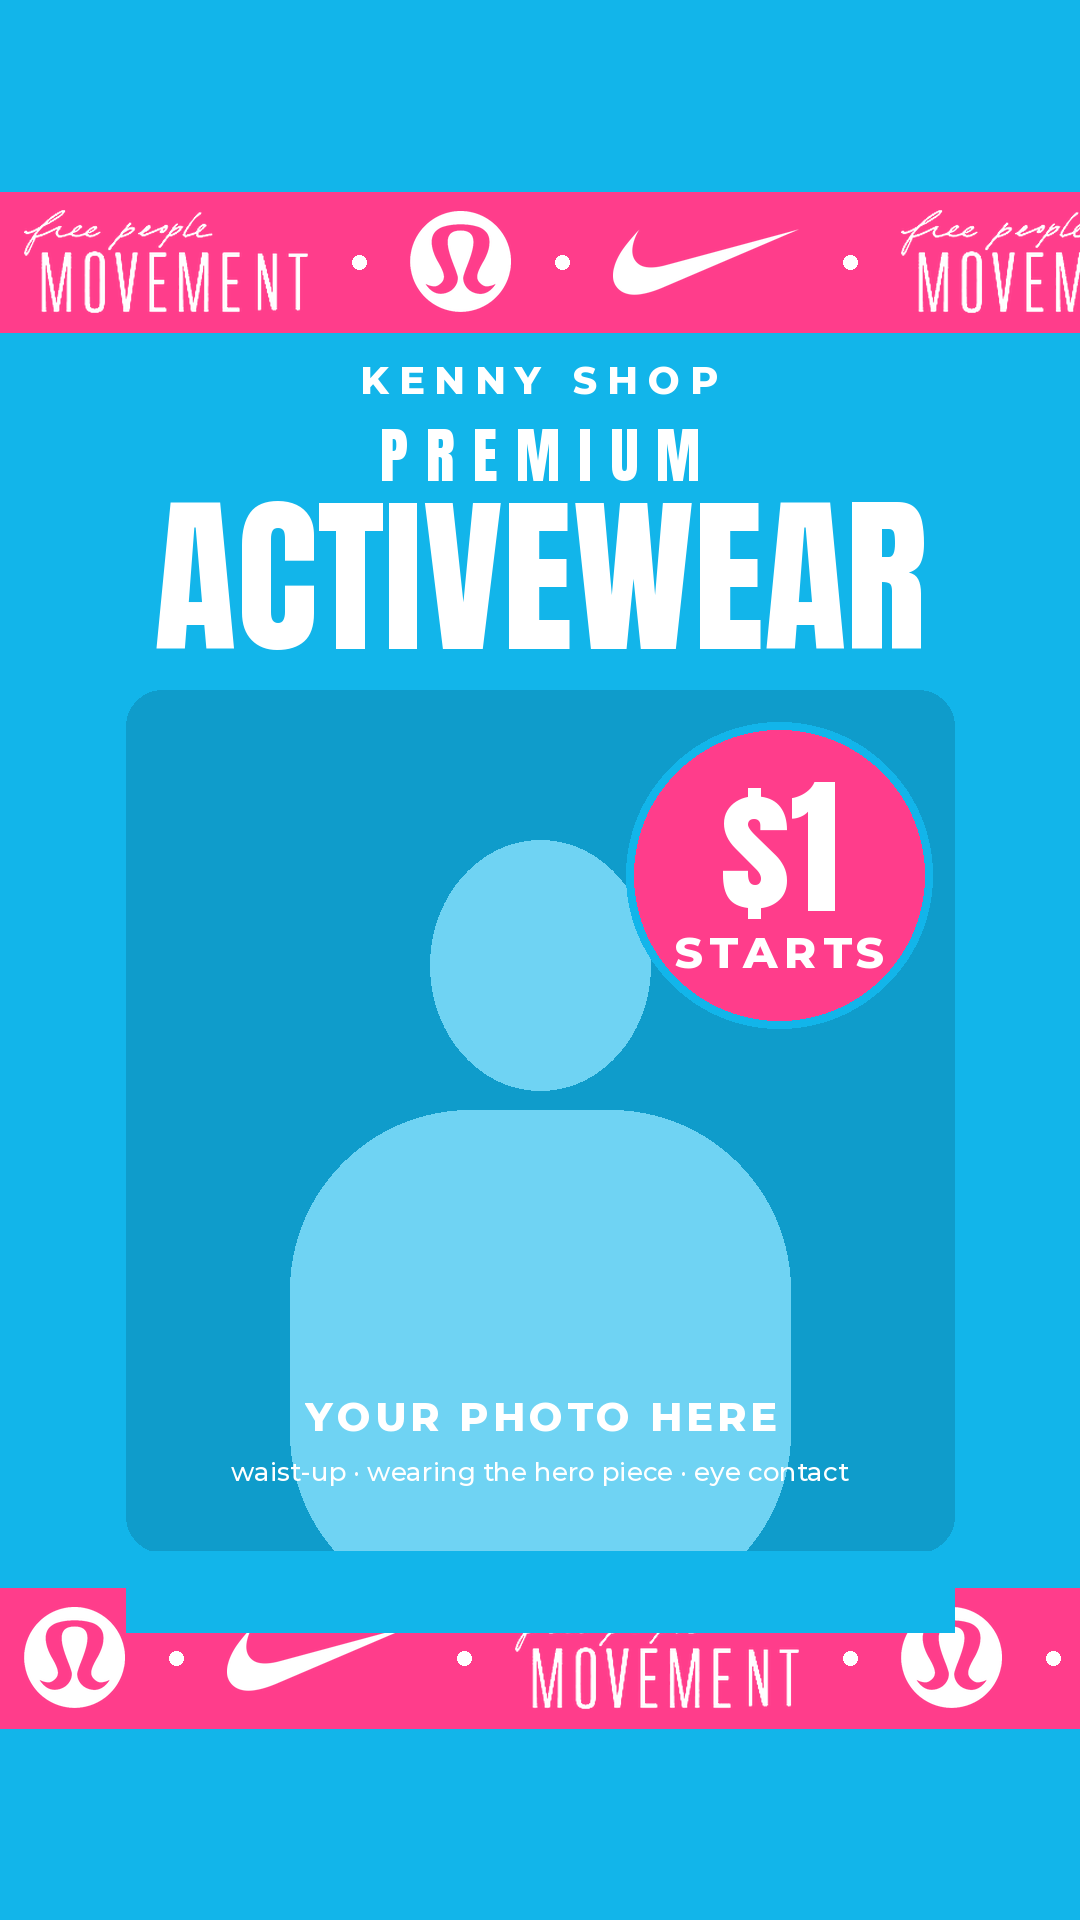
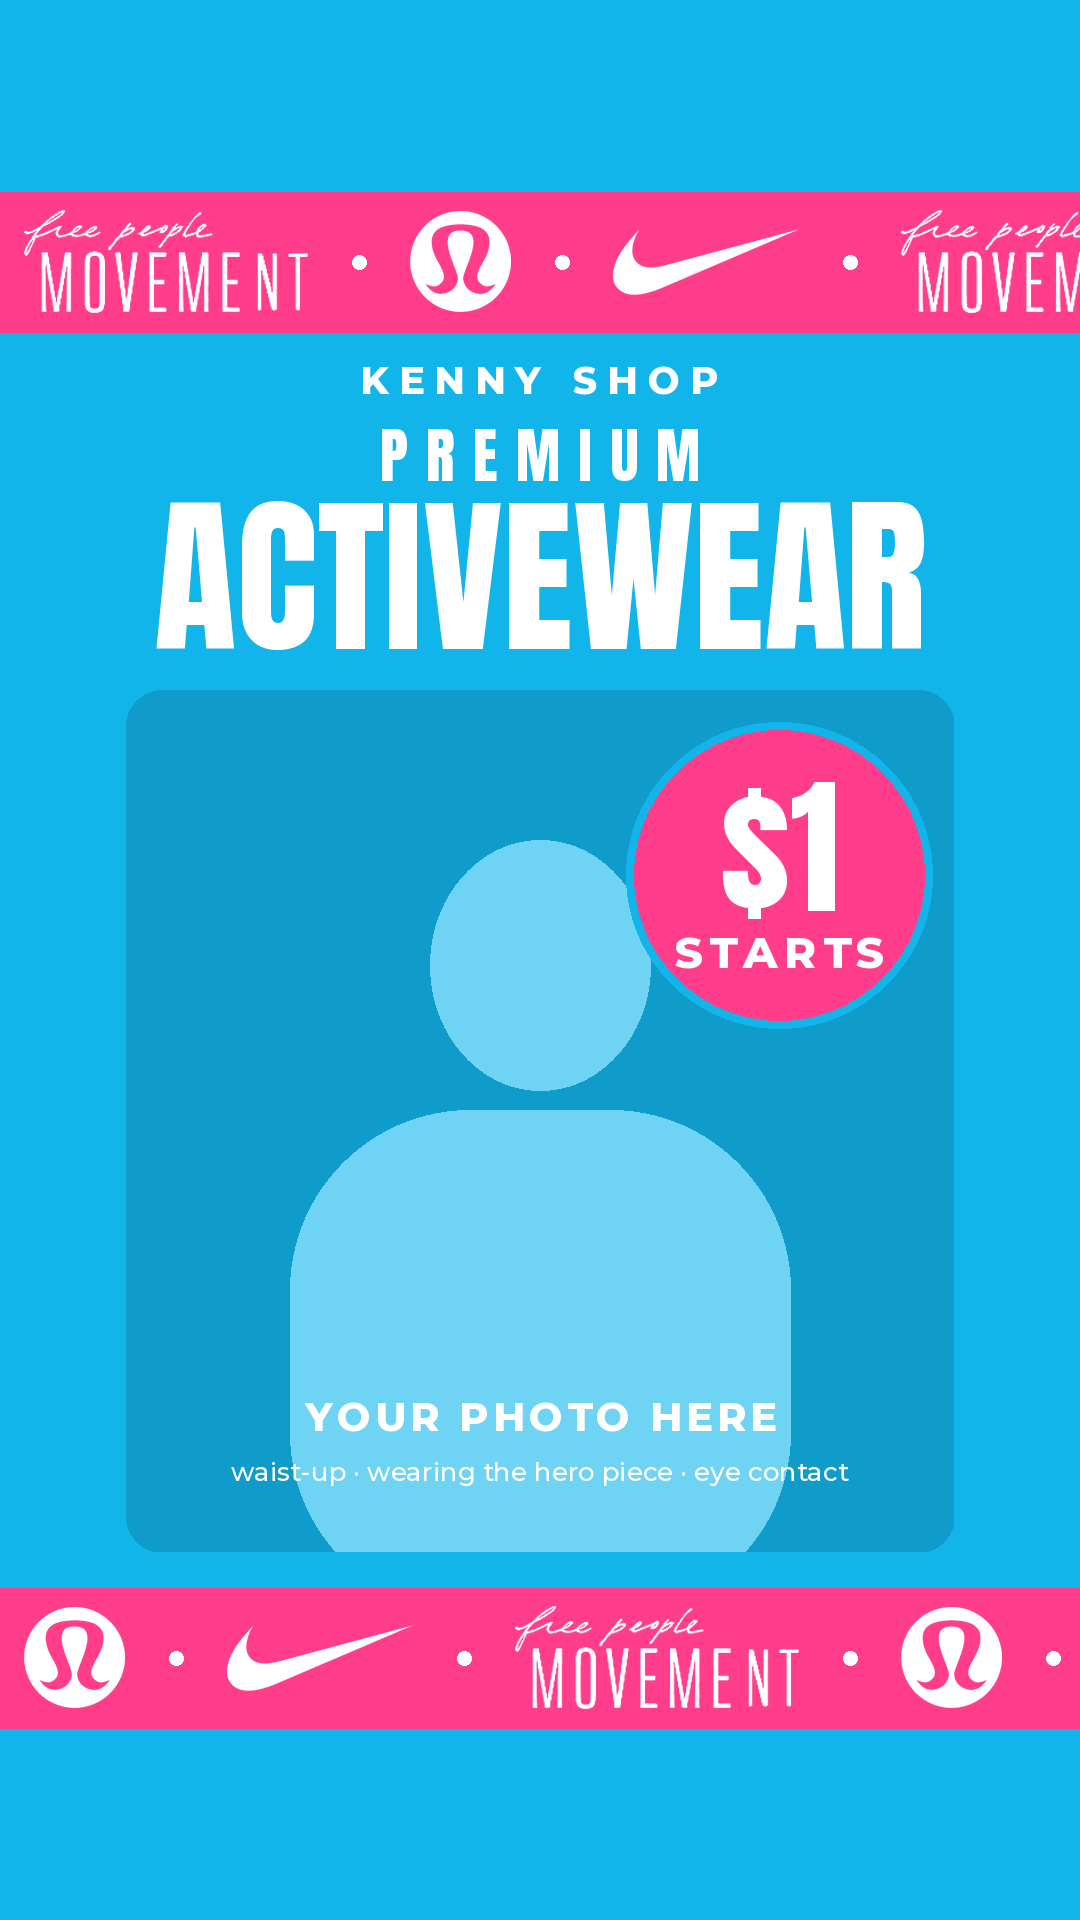
Add "For the Girls" Whatnot cover: pink, Brandy Melville / Aerie / Garage / Princess Polly
- New show in make_covers.py (hot pink + baby pink, Playfair headline)
- Six pink color options in options-for-the-girls.png
- Photo placeholder now clipped to its rounded slot, so it no longer
  covers part of the bottom runner on covers without a footer
- Feed-size preview sheet fits any number of covers
- Docs and LESSONS updated

Claude-Session: https://claude.ai/code/session_018tfaUp7KnHdXiLf2Dktp8N

Changed region(s): [[0.1222, 0.8125, 0.8861, 0.875]]

diff --git a/02-branding/whatnot-covers/make_covers.py b/02-branding/whatnot-covers/make_covers.py
@@ -1,7 +1,7 @@
-"""Build the two Whatnot show cover mockups (1080x1920).
+"""Build the Whatnot show cover mockups (1080x1920).
 
 Run:  python3 make_covers.py
-Makes a PNG per show plus a preview sheet showing both at phone-feed size
+Makes a PNG per show plus a preview sheet showing them all at phone-feed size
 with the safe zone marked. With no photo, a grey figure stands in (the
 template). Put a photo in photos/ and set "photo" + "crop" on a show to get
 the finished cover in final/ (photos/ and final/ are kept out of git).
@@ -36,6 +36,13 @@ SHOWS = {
         head_font=DISPLAY, head_scale=1.0, badge_font=DISPLAY, top="PREMIUM", main="ACTIVEWEAR",
         brands=["FREE PEOPLE MOVEMENT", "LULULEMON", "NIKE"], brand_font=SANS_B,
         photo=HERE / "photos" / "activewear-2.webp", crop=(200, 0, 1110, 1052),
+    ),
+    "for-the-girls": dict(
+        # hot pink + baby pink
+        bg="#FF4FA3", ink="#FFFFFF", accent="#FFD1E6", badge_ink="#E0287D", logo="#FFD1E6",
+        photo_bg="#F03D93", figure="#FF8CC2",
+        head_font=SERIF_B, head_scale=1.0, top="FOR THE", main="GIRLS",
+        brands=["BRANDY MELVILLE", "AERIE", "GARAGE", "PRINCESS POLLY"], brand_font=SANS_B,
     ),
 }
 # Second Premium Contemporary cover: same look, new photo and brands, no fall line.
@@ -167,7 +174,6 @@ def paste_center(canvas, im, y):
 
 def draw_photo(canvas, s, box):
     x0, y0, x1, y1 = box
-    d = ImageDraw.Draw(canvas)
     photo = s.get("photo")
     if photo and Path(photo).exists():
         ph = Image.open(photo).convert("RGBA")
@@ -196,12 +202,16 @@ def draw_photo(canvas, s, box):
         ImageDraw.Draw(mask).rounded_rectangle((0, 0, bw, bh), 36, fill=255)
         canvas.paste(ph, (x0, y0), mask)
         return
-    d.rounded_rectangle(box, 36, fill=s["photo_bg"])
+    # waist-up figure placeholder, drawn in its own layer so the slot clips it
+    bw, bh = x1 - x0, y1 - y0
+    slot = Image.new("RGBA", (bw, bh), s["photo_bg"])
+    sd = ImageDraw.Draw(slot)
+    sd.ellipse((bw // 2 - 110, 150, bw // 2 + 110, 400), fill=s["figure"])
+    sd.rounded_rectangle((bw // 2 - 250, 420, bw // 2 + 250, bh + 60), 180, fill=s["figure"])
+    mask = Image.new("L", (bw, bh), 0)
+    ImageDraw.Draw(mask).rounded_rectangle((0, 0, bw, bh), 36, fill=255)
+    canvas.paste(slot, (x0, y0), mask)
     cx = (x0 + x1) // 2
-    # waist-up figure placeholder
-    d.ellipse((cx - 110, y0 + 150, cx + 110, y0 + 400), fill=s["figure"])
-    d.rounded_rectangle((cx - 250, y0 + 420, cx + 250, y1 + 60), 180, fill=s["figure"])
-    d.rectangle((x0, y1 - 1, x1, y1 + 80), fill=s["bg"])  # clip figure bottom
     label = text_img("YOUR PHOTO HERE", SANS_B, 40, s["ink"], spacing=4)
     canvas.alpha_composite(label, (cx - label.width // 2, y1 - 150))
     sub = text_img("waist-up · wearing the hero piece · eye contact", SANS, 26, s["ink"])
@@ -249,9 +259,9 @@ def build(name, s, out=None):
 
 
 def preview(covers, out="preview-feed-size.png"):
-    """Both covers at feed-card size (270x480) with the safe zone dashed."""
+    """All covers at feed-card size (270x480) with the safe zone dashed."""
     tw, th, pad = 270, 480, 40
-    sheet = Image.new("RGB", (pad * 3 + tw * 2, th + pad * 2 + 50), "#FFFFFF")
+    sheet = Image.new("RGB", (pad * (len(covers) + 1) + tw * len(covers), th + pad * 2 + 50), "#FFFFFF")
     d = ImageDraw.Draw(sheet)
     k = tw / W
     for i, (name, c) in enumerate(covers.items()):

diff --git a/02-branding/whatnot-covers/color_options.py b/02-branding/whatnot-covers/color_options.py
@@ -1,6 +1,7 @@
 """Side-by-side color options for each show, at phone-feed size.
 
-Run:  python3 color_options.py   ->  options-contemporary.png, options-activewear.png
+Run:  python3 color_options.py   ->  options-contemporary.png, options-activewear.png,
+                                     options-for-the-girls.png
 To use one: copy its colors into SHOWS in make_covers.py.
 """
 from PIL import Image, ImageDraw, ImageFont
@@ -35,6 +36,15 @@ ACTIVEWEAR = {
     "6 Black + Neon Lime": ("#111111", "#FFFFFF", "#C6FF3D", "#111111"),
 }
 
+FOR_THE_GIRLS = {
+    "1 Hot Pink + Baby Pink": ("#FF4FA3", "#FFFFFF", "#FFD1E6", "#E0287D"),
+    "2 Baby Pink + Hot Pink": ("#FFC9DE", "#C2185B", "#FF3D8B", "#FFFFFF", "#E0287D"),
+    "3 Barbie Pink + White": ("#E0218A", "#FFFFFF", "#FFFFFF", "#E0218A"),
+    "4 Bubblegum + Cherry Red": ("#FF8FC0", "#FFFFFF", "#E0112B", "#FFFFFF", "#FFFFFF"),
+    "5 Blush + Lavender": ("#F9C6D3", "#5B2A86", "#B9A6F2", "#2E1A47", "#5B2A86"),
+    "6 Pink + Black": ("#FF6FB0", "#111111", "#111111", "#FF6FB0"),
+}
+
 
 def sheet(show, options, out):
     base = SHOWS[show]
@@ -62,4 +72,5 @@ def sheet(show, options, out):
 if __name__ == "__main__":
     sheet("premium-contemporary", CONTEMPORARY, "options-contemporary.png")
     sheet("premium-activewear", ACTIVEWEAR, "options-activewear.png")
+    sheet("for-the-girls", FOR_THE_GIRLS, "options-for-the-girls.png")
     print("done")

diff --git a/02-branding/thumbnail-maker.md b/02-branding/thumbnail-maker.md
@@ -1,7 +1,7 @@
 # Thumbnail Maker
 
-Whatnot show covers for the two $1-start series: **Premium Contemporary** and
-**Premium Activewear**. Mockups are in `whatnot-covers/`.
+Whatnot show covers for the $1-start series: **Premium Contemporary**,
+**Premium Activewear** and **For the Girls**. Mockups are in `whatnot-covers/`.
 
 ## Specs
 - Size: **1080 × 1920** (tall, 9:16).
@@ -25,12 +25,12 @@ Whatnot show covers for the two $1-start series: **Premium Contemporary** and
 
 ## Style
 
-### Shared layout (both shows)
+### Shared layout (all shows)
 Top to bottom, all inside the safe zone:
 1. **Logo runner**: an edge-to-edge band in the accent color with the show's brand logos
    repeating, separated by dots (like a ticker). It runs off both sides on purpose.
 2. `KENNY SHOP`: small, spaced-out letters in the accent color
-3. `PREMIUM` + show name: the big headline
+3. `PREMIUM` + show name: the big headline (`FOR THE` + `GIRLS` on For the Girls)
 4. Your photo: wearing the hero piece, smiling at the camera, filling most of the frame
 5. `$1 STARTS`: a round badge by your shoulder
 6. (Contemporary) `FALL THEMED` in the accent color
@@ -53,12 +53,20 @@ slightly low in the strip (`RUNNER_NUDGE` in `make_covers.py`).
 - Text: `PREMIUM ACTIVEWEAR` · `$1 STARTS` · runners: Free People Movement · Lululemon · Nike logos
 - Outfit: a matching set (Align, Define, Alo) in a color that pops against bright blue (orange, black, white, lime). Avoid blue sets.
 
+### For the Girls: pink
+- Background: hot pink
+- Colors: hot pink `#FF4FA3` · white `#FFFFFF` (headline) · baby pink `#FFD1E6` (runners, Kenny Shop, $1 badge) · deep pink `#E0287D` (runner text, badge text)
+- Fonts: Playfair Display Bold headline, Montserrat ExtraBold for Kenny Shop, badge and brand text
+- Text: `FOR THE GIRLS` · `$1 STARTS` · runners: `BRANDY MELVILLE` · `AERIE` · `GARAGE` · `PRINCESS POLLY` (text until logo files are added)
+- Outfit: a cute going-out or everyday look (baby tee + low-rise jeans, a Princess Polly mini dress, an Aerie set). White, black, denim or red pop on pink; avoid an all-pink outfit.
+- Other pinks to pick from: `whatnot-covers/options-for-the-girls.png`
+
 ## Templates
-- Main cover photo (blank templates): `whatnot-covers/premium-contemporary.png`, `whatnot-covers/premium-activewear.png`
+- Main cover photo (blank templates): `whatnot-covers/premium-contemporary.png`, `whatnot-covers/premium-activewear.png`, `whatnot-covers/for-the-girls.png`
 - Finished covers with your photos: `whatnot-covers/final/` (includes `premium-contemporary-2.png`, a second Contemporary cover with no fall line and Free People · Anthropologie · Aritzia in the runners; Anthropologie and Aritzia show as text until their logo files are added). These and the photos in
   `whatnot-covers/photos/` stay on this computer only and are kept out of git, because the repo is public.
 - Feed-size check: `whatnot-covers/preview-feed-size.png`
-- Other color options considered: `whatnot-covers/options-contemporary.png`, `whatnot-covers/options-activewear.png`
+- Other color options considered: `whatnot-covers/options-contemporary.png`, `whatnot-covers/options-activewear.png`, `whatnot-covers/options-for-the-girls.png`
 - Bundle / lot photo:
 - Sale / promo photo:
 
@@ -74,7 +82,8 @@ slightly low in the strip (`RUNNER_NUDGE` in `make_covers.py`).
   - Free People Movement: the file sent was cut off after "MOVEME", so the "NT" was redrawn to match.
   - Anthropologie: the file sent was too small (16 px tall) to enlarge cleanly, so the wordmark is
     redrawn in Playfair Display with the same spaced capitals.
-- Still need: Aritzia (shows as bold text until then).
+- Still need: Aritzia, Brandy Melville, Aerie, Garage, Princess Polly (show as bold text until then).
+  Save them as `brandy-melville.png`, `aerie.png`, `garage.png`, `princess-polly.png`.
 
 ## Photo shoot checklist
 - [ ] Phone at chest height, vertical, back camera, wipe the lens

diff --git a/README.md b/README.md
@@ -14,6 +14,7 @@ Jade
 │   ├── titles.md
 │   └── whatnot-covers/          Whatnot show cover mockups
 │       ├── color_options.py
+│       ├── for-the-girls.png
 │       ├── fonts/
 │       │   ├── Anton-Regular.ttf
 │       │   ├── Montserrat-ExtraBold.ttf
@@ -36,6 +37,7 @@ Jade
 │       ├── make_covers.py
 │       ├── options-activewear.png
 │       ├── options-contemporary.png
+│       ├── options-for-the-girls.png
 │       ├── premium-activewear.png
 │       ├── premium-contemporary.png
 │       └── preview-feed-size.png

diff --git a/LESSONS.md b/LESSONS.md
@@ -64,6 +64,13 @@ Claude reads this before every task and adds to it as it goes (see
 
 ## Branding and covers
 
+- Whatnot covers are built in `02-branding/whatnot-covers/make_covers.py`
+  (one entry per show in `SHOWS`), with color choices in `color_options.py`.
+  "For the Girls" = pink, Brandy Melville · Aerie · Garage · Princess Polly.
+- Brand logos come from Jade; until a file is in `logos/`, the brand shows as
+  bold text. Wikimedia Commons rate-limits (429) cloud sessions, so don't
+  rely on it for logos.
+
 ## Whatnot shows
 
 - Whatnot: run Premium Activewear and Premium Contemporary as two separate

diff --git a/02-branding/README.md b/02-branding/README.md
@@ -1,6 +1,6 @@
 # Branding
 
 - `thumbnail-maker.md` — Whatnot cover photo research, style and templates
-- `whatnot-covers/` — cover mockups for Premium Contemporary + Premium Activewear
+- `whatnot-covers/` — cover mockups for Premium Contemporary, Premium Activewear and For the Girls
 - `titles.md` — listing title formulas and keywords
 - `brand-ideas-planning.md` — on-brand ideas and planning
